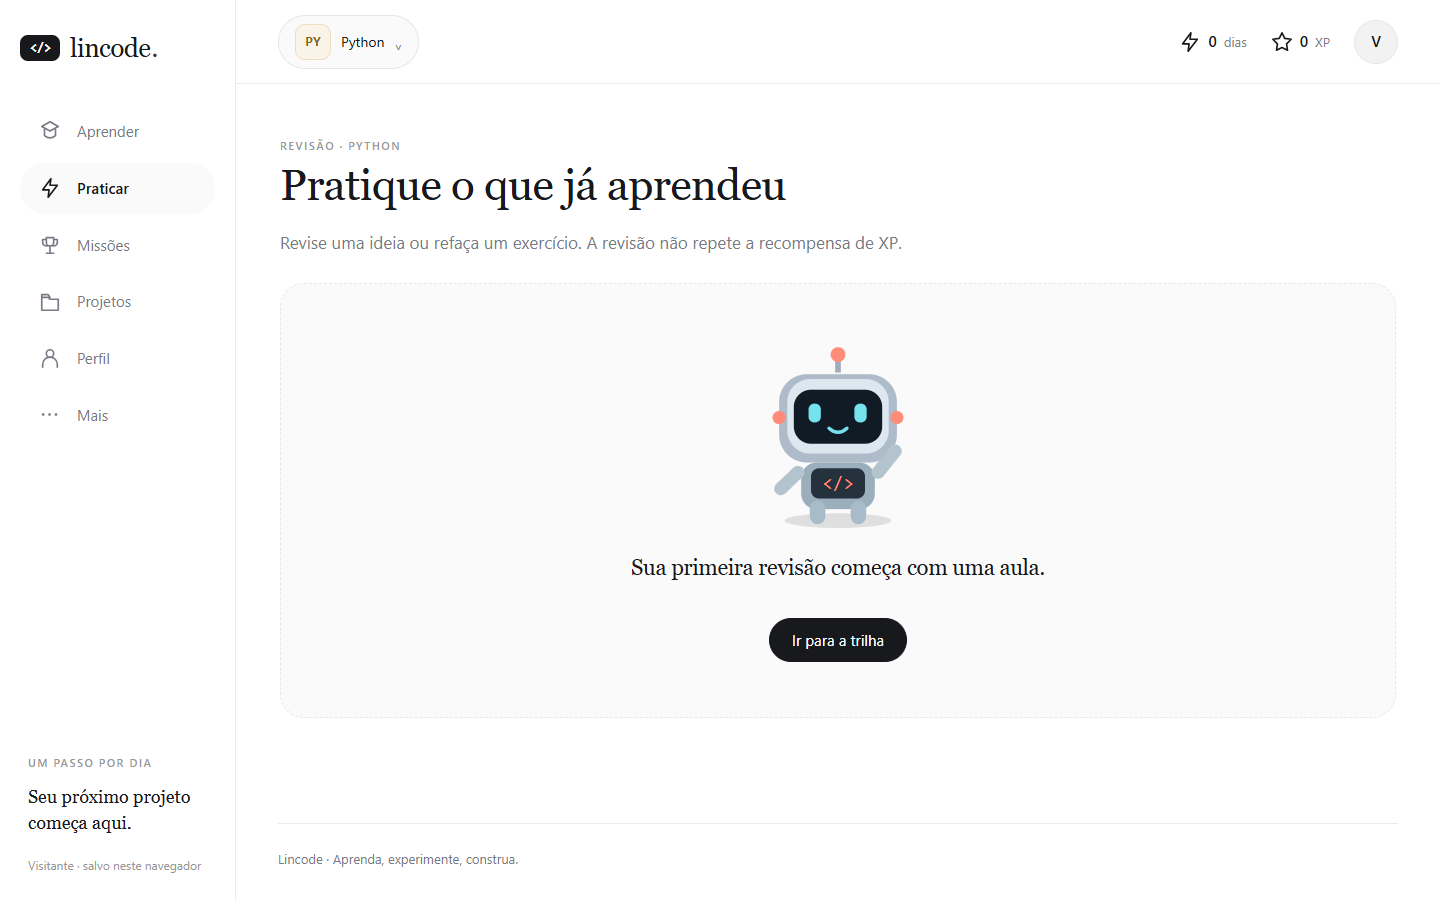
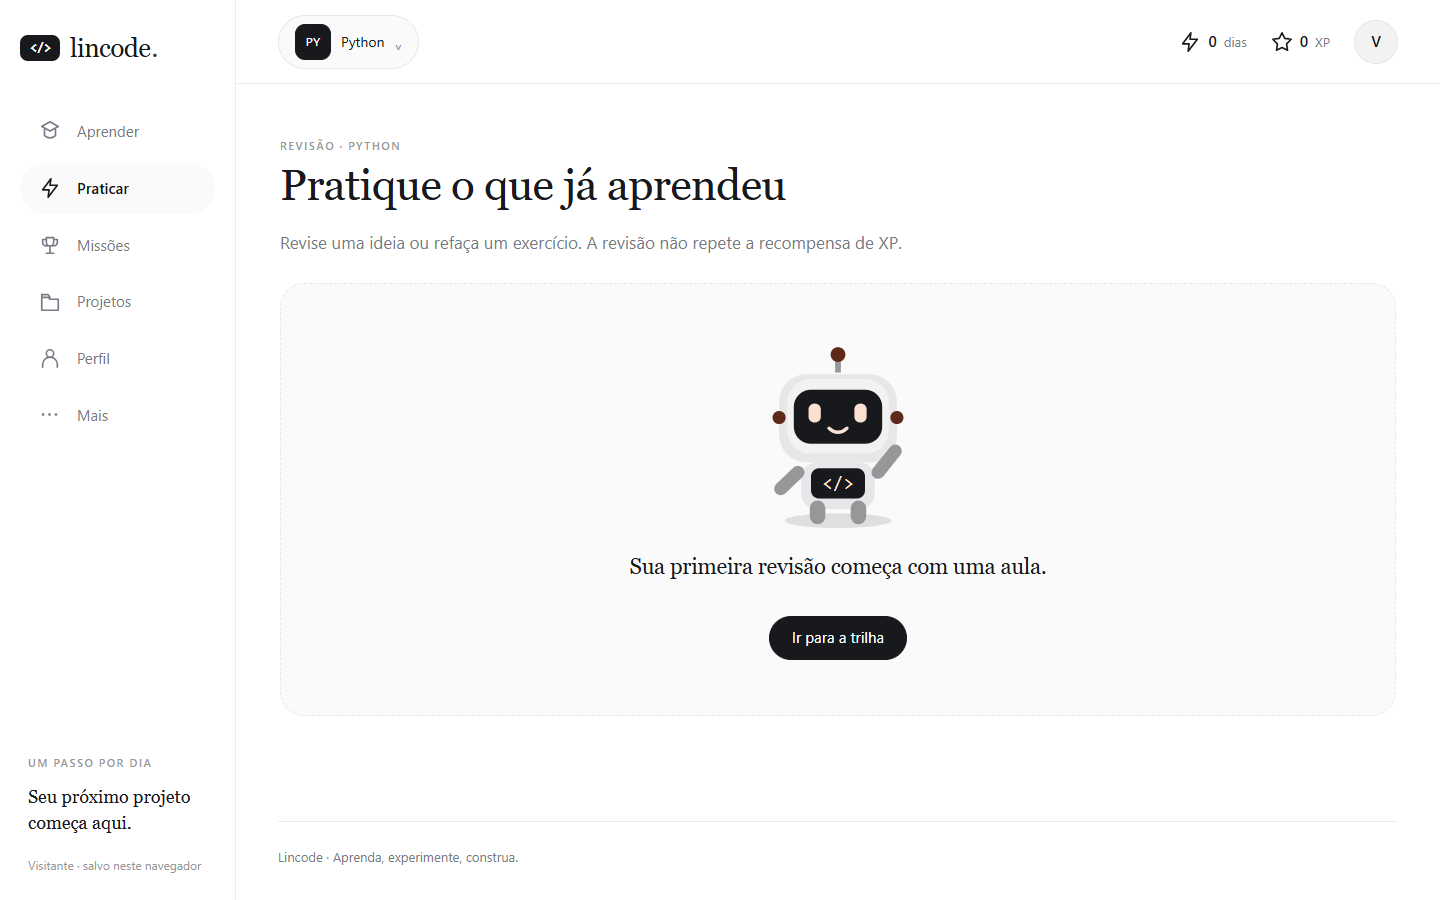
feat(ui): refinamento do sistema de design steep com tokens tipograficos, escala de superficies e mascote harmonizado

diff --git a/styles.css b/styles.css
@@ -14,10 +14,17 @@
   --color-border-hairline: #e7e7ea;
   --color-border-subtle: #ececec;
 
+  /* Surfaces */
+  --surface-canvas: #ffffff;
+  --surface-card-mist: #f2f2f3;
+  --surface-section-fog: #fafafb;
+  --surface-accent-blush: #fbe1d1;
+  --surface-elevated-white: #ffffff;
+
   /* Lincode Mappings */
-  --bg: var(--color-paper-white);
-  --surface: var(--color-mist-gray);
-  --raised: var(--color-paper-white);
+  --bg: var(--surface-canvas);
+  --surface: var(--surface-card-mist);
+  --raised: var(--surface-elevated-white);
   --line: var(--color-border-subtle);
   --ink: var(--color-ink-black);
   --muted: var(--color-slate-gray);
@@ -25,22 +32,83 @@
   --cyan: var(--color-ink-black);
   --peach: var(--color-blush-peach);
 
-  /* Typography */
-  --font-serif: 'Signifier', 'GT Sectra', 'Tiempos Headline', 'Source Serif 4', Georgia, ui-serif, serif;
-  --font-sans: 'Sohne', Inter, ui-sans-serif, system-ui, -apple-system, BlinkMacSystemFont, "Segoe UI", Roboto, sans-serif;
+  /* Typography — Font Families */
+  --font-signifier: 'Signifier', 'GT Sectra', 'Tiempos Headline', 'Source Serif 4', Georgia, ui-serif, serif;
+  --font-sohne: 'Sohne', Inter, ui-sans-serif, system-ui, -apple-system, BlinkMacSystemFont, "Segoe UI", Roboto, sans-serif;
+  --font-serif: var(--font-signifier);
+  --font-sans: var(--font-sohne);
   --font-mono: Consolas, 'SF Mono', 'Courier New', monospace;
 
+  /* Typography — Scale */
+  --text-caption: 15px;
+  --leading-caption: 1.5;
+  --text-body: 17px;
+  --leading-body: 1.35;
+  --text-body-lg: 20px;
+  --leading-body-lg: 1.35;
+  --text-subheading: 22px;
+  --leading-subheading: 1.5;
+  --text-heading-sm: 26px;
+  --leading-heading-sm: 1.18;
+  --tracking-heading-sm: -0.23px;
+  --text-heading: 44px;
+  --leading-heading: 1.3;
+  --tracking-heading: -0.66px;
+  --text-heading-lg: 64px;
+  --leading-heading-lg: 1.3;
+  --tracking-heading-lg: -0.96px;
+  --text-display: 90px;
+  --leading-display: 1.3;
+  --tracking-display: -2.25px;
+
+  /* Typography — Weights */
+  --font-weight-regular: 400;
+  --font-weight-w430: 430;
+  --font-weight-w450: 450;
+  --font-weight-w480: 480;
+  --font-weight-medium: 500;
+
+  /* Spacing Scale (4px base) */
+  --spacing-4: 4px;
+  --spacing-8: 8px;
+  --spacing-12: 12px;
+  --spacing-16: 16px;
+  --spacing-20: 20px;
+  --spacing-24: 24px;
+  --spacing-28: 28px;
+  --spacing-32: 32px;
+  --spacing-40: 40px;
+  --spacing-64: 64px;
+  --spacing-80: 80px;
+  --spacing-96: 96px;
+  --spacing-124: 124px;
+  --spacing-128: 128px;
+  --spacing-160: 160px;
+
   /* Shapes & Radii */
-  --radius-pill: 9999px;
-  --radius-card: 24px;
-  --radius-elevated: 20px;
-  --radius-input: 16px;
+  --radius-buttons: 9999px;
+  --radius-cards: 24px;
+  --radius-elevatedcards: 20px;
+  --radius-smallcards: 16px;
+  --radius-inputs: 16px;
+  --radius-images: 12px;
+
+  --radius-pill: var(--radius-buttons);
+  --radius-card: var(--radius-cards);
+  --radius-elevated: var(--radius-elevatedcards);
+  --radius-input: var(--radius-inputs);
   --radius: var(--radius-card);
 
+  /* Layout */
+  --page-max-width: 1200px;
+  --section-gap: 80px;
+  --card-padding: 20px;
+  --element-gap: 8px;
+
   /* Elevation Shadows */
-  --shadow-subtle: oklab(0 0 0 / 0.05) 0px 0px 0px 1px, rgba(0, 0, 0, 0.06) 0px 4px 20px 0px;
-  --shadow-subtle-2: oklab(0 0 0 / 0.05) 0px 0px 0px 1px, rgba(0, 0, 0, 0.08) 0px 8px 30px 0px;
-  --shadow-subtle-3: rgba(4, 23, 43, 0.04) 0px 0px 0px 1px, rgba(0, 0, 0, 0.08) 0px 20px 25px -5px, rgba(0, 0, 0, 0.05) 0px 8px 10px -6px;
+  --shadow-subtle: oklab(0 0 0 / 0.05) 0px 0px 0px 1px, rgba(0, 0, 0, 0.08) 0px 4px 24px 0px;
+  --shadow-subtle-2: oklab(0 0 0 / 0.05) 0px 0px 0px 1px, rgba(0, 0, 0, 0.1) 0px 8px 40px 0px;
+  --shadow-subtle-3: rgba(4, 23, 43, 0.05) 0px 0px 0px 1px, rgba(0, 0, 0, 0.1) 0px 20px 25px -5px, rgba(0, 0, 0, 0.1) 0px 8px 10px -6px;
 
   font-family: var(--font-sans);
   color: var(--ink);
@@ -70,25 +138,31 @@ a { color: inherit; text-decoration: none; }
 h1, h2, h3, h4, p { margin: 0; }
 h1, h2 {
   font-family: var(--font-serif);
-  font-weight: 400; /* Signature Steep restraint: whisper authority at weight 400 */
-  line-height: 1.30;
+  font-weight: var(--font-weight-regular); /* Signature Steep restraint: whisper authority at weight 400 */
 }
 h1 {
-  font-size: clamp(28px, 3.2vw, 44px);
-  letter-spacing: -0.66px;
+  font-size: clamp(28px, 3.2vw, var(--text-heading));
+  line-height: var(--leading-heading);
+  letter-spacing: var(--tracking-heading);
 }
 h2 {
-  font-size: 24px;
-  letter-spacing: -0.3px;
+  font-size: var(--text-heading-sm);
+  line-height: var(--leading-heading-sm);
+  letter-spacing: var(--tracking-heading-sm);
+}
+h1 em, h1 i, h2 em, h2 i {
+  font-style: italic;
+  font-weight: var(--font-weight-regular);
 }
 h3 {
   font-size: 18px;
-  font-weight: 500;
+  font-weight: var(--font-weight-medium);
+  letter-spacing: -0.16px;
   line-height: 1.35;
 }
 h4 {
   font-size: 15px;
-  font-weight: 500;
+  font-weight: var(--font-weight-medium);
   line-height: 1.4;
 }
 p { margin-top: 12px; }
@@ -265,16 +339,21 @@ main:focus { outline: 0; }
   color: var(--color-ink-black);
   border: 1px solid var(--color-border-hairline);
   font-family: var(--font-mono);
-  font-size: 14px;
-  font-weight: 600;
+  font-size: 13px;
+  font-weight: 500;
   border-radius: 10px;
   flex-shrink: 0;
+  transition: all 0.15s ease;
 }
-.language-tag.python { color: #855f19; background: #faf4e8; border-color: #eeddc2; }
-.language-tag.javascript { color: #7f6e16; background: #faf8e7; border-color: #eee7be; }
-.language-tag.csharp { color: #5c357f; background: #f6eefc; border-color: #dec8f0; }
-.language-tag.java { color: #803c27; background: #fcefe9; border-color: #f2cbbe; }
-.language-tag.cpp { color: #1c527e; background: #edf4fa; border-color: #c7ddf0; }
+.course-card.selected .language-tag,
+.course-switch .language-tag {
+  background: var(--color-ink-black);
+  color: var(--color-paper-white);
+  border-color: var(--color-ink-black);
+}
+.course-card:hover .language-tag {
+  border-color: var(--color-ink-black);
+}
 
 .stats {
   display: flex;
@@ -588,13 +667,19 @@ main:focus { outline: 0; }
   font-size: 13px;
 }
 
-/* Right Rail Panels (Neutral Cards) */
+/* Right Rail Panels (Floating Product Artifacts) */
 .right-rail { display: grid; gap: 24px; }
 .panel {
   padding: 24px;
   border: 1px solid var(--color-border-hairline);
   border-radius: var(--radius-card); /* 24px */
   background: var(--color-mist-gray); /* Steep Neutral Card */
+}
+.right-rail .panel {
+  background: var(--surface-elevated-white);
+  border: 1px solid var(--color-border-subtle);
+  border-radius: var(--radius-elevatedcards); /* 20px */
+  box-shadow: var(--shadow-subtle-3); /* Floating Product Artifact elevation */
 }
 .panel h2 {
   font-size: 18px;
@@ -691,12 +776,12 @@ main:focus { outline: 0; }
   font-size: 13px;
   line-height: 1.6;
   color: var(--color-ink-black);
-  background: var(--color-paper-white);
-  border: 1px solid var(--color-border-subtle);
-  padding: 14px;
-  border-radius: 16px;
+  background: var(--surface-card-mist);
+  border: 1px solid var(--color-border-hairline);
+  padding: 16px;
+  border-radius: var(--radius-smallcards);
   margin-top: 0;
-  box-shadow: 0 1px 3px rgba(0, 0, 0, 0.03);
+  box-shadow: none;
 }
 .bit-note > span {
   font-size: 10px;
@@ -1156,10 +1241,10 @@ dialog::backdrop {
   font-family: var(--font-mono);
   font-size: 14px;
   line-height: 1.8;
-  background: #f8f8fa;
-  border: 1px solid #e5e5e9;
+  background: var(--surface-section-fog);
+  border: 1px solid var(--color-border-subtle);
   padding: 22px 24px;
-  border-radius: 16px;
+  border-radius: var(--radius-inputs);
   overflow: auto;
   color: var(--color-ink-black);
   tab-size: 4;
@@ -1225,9 +1310,9 @@ dialog::backdrop {
   margin-top: 24px;
 }
 .feedback.correct {
-  background: #edf7ed;
-  border: 1px solid #c8e6c9;
-  color: #1e4620;
+  background: #f4f8f4;
+  border: 1px solid #dbe7db;
+  color: #1e3820;
 }
 .feedback.incorrect {
   background: var(--color-blush-peach); /* Steep Peach Accent */

diff --git a/app.js b/app.js
@@ -7,7 +7,7 @@ const $=s=>document.querySelector(s), core=LincodeCore;
 const esc=s=>String(s??'').replace(/[&<>"']/g,c=>({'&':'&amp;','<':'&lt;','>':'&gt;','"':'&quot;',"'":'&#39;'}[c]));
 const symbols={learn:'M3 7l9-5 9 5-9 5z M6 10v7q6 5 12 0v-7',practice:'M13 2L4 14h7l-1 8 10-13h-8z',missions:'M8 4h8v5a4 4 0 0 1-8 0z M8 6H4v3q0 4 5 4 M16 6h4v3q0 4-5 4 M12 13v7 M8 21h8',projects:'M3 7h7l2 2h9v12H3z M3 7V4h7l2 3',profile:'M16 7a4 4 0 1 1-8 0 4 4 0 0 1 8 0 M4 22v-3a8 8 0 0 1 16 0v3',more:'M4 11h1v1H4z M11 11h1v1h-1z M18 11h1v1h-1z',star:'M12 2l3 6 7 1-5 5 1 7-6-3-6 3 1-7-5-5 7-1z',check:'M4 12l5 5L20 5',lock:'M7 10V7a5 5 0 0 1 10 0v3 M5 10h14v11H5z',arrow:'M5 12h14 M13 6l6 6-6 6',code:'M8 5l-6 7 6 7 M16 5l6 7-6 7 M14 3l-4 18'};
 const icon=n=>`<svg class="icon" viewBox="0 0 24 24" aria-hidden="true"><path d="${symbols[n]||symbols.code}"/></svg>`;
-function bit(mood='explain') {return `<svg class="bit bit-${mood}" viewBox="0 0 220 240" role="img" aria-label="Bit, robô ${mood==='celebrate'?'comemorando':mood==='doubt'?'pensando':mood==='encourage'?'incentivando':'explicando'}"><ellipse cx="110" cy="222" rx="65" ry="9" fill="rgba(23,25,28,0.12)"/><path d="M110 41V22" stroke="#a4acb9" stroke-width="7"/><circle cx="110" cy="19" r="9" fill="#ff8c78"/><rect x="38" y="43" width="144" height="108" rx="34" fill="#aebcc9"/><rect x="48" y="49" width="124" height="91" rx="28" fill="#dce7ef"/><rect x="56" y="62" width="108" height="66" rx="21" fill="#111b25"/><g fill="#75e3ee">${mood==='celebrate'?'<path d="M71 88l10-8 10 8-4 5-6-5-6 5z M129 88l10-8 10 8-4 5-6-5-6 5z"/>':'<rect x="74" y="79" width="15" height="23" rx="7"/><rect x="130" y="79" width="15" height="23" rx="7"/>'}</g><path d="${mood==='doubt'?'M102 113h18':'M99 109q11 10 22 0'}" stroke="#75e3ee" stroke-width="4" fill="none" stroke-linecap="round"/><rect x="65" y="151" width="90" height="57" rx="19" fill="#9aaebb"/><rect x="77" y="158" width="66" height="37" rx="10" fill="#25313c"/><text x="110" y="183" text-anchor="middle" fill="#ff8c78" font-size="23" font-family="monospace">&lt;/&gt;</text><path d="M61 163l-21 ${mood==='celebrate'?'-29':'20'} M159 163l21 -26" stroke="#b4c4cf" stroke-width="16" stroke-linecap="round"/><path d="M85 207v10 M135 207v10" stroke="#a8bbc9" stroke-width="19" stroke-linecap="round"/><circle cx="38" cy="96" r="8" fill="#ff8c78"/><circle cx="182" cy="96" r="8" fill="#ff8c78"/></svg>`;}
+function bit(mood='explain') {return `<svg class="bit bit-${mood}" viewBox="0 0 220 240" role="img" aria-label="Bit, robô ${mood==='celebrate'?'comemorando':mood==='doubt'?'pensando':mood==='encourage'?'incentivando':'explicando'}"><ellipse cx="110" cy="222" rx="65" ry="9" fill="rgba(23,25,28,0.12)"/><path d="M110 41V22" stroke="#979799" stroke-width="7"/><circle cx="110" cy="19" r="9" fill="#5d2a1a"/><rect x="38" y="43" width="144" height="108" rx="34" fill="#e7e7ea"/><rect x="48" y="49" width="124" height="91" rx="28" fill="#f2f2f3"/><rect x="56" y="62" width="108" height="66" rx="21" fill="#17191c"/><g fill="#fbe1d1">${mood==='celebrate'?'<path d="M71 88l10-8 10 8-4 5-6-5-6 5z M129 88l10-8 10 8-4 5-6-5-6 5z"/>':'<rect x="74" y="79" width="15" height="23" rx="7"/><rect x="130" y="79" width="15" height="23" rx="7"/>'}</g><path d="${mood==='doubt'?'M102 113h18':'M99 109q11 10 22 0'}" stroke="#fbe1d1" stroke-width="4" fill="none" stroke-linecap="round"/><rect x="65" y="151" width="90" height="57" rx="19" fill="#e7e7ea"/><rect x="77" y="158" width="66" height="37" rx="10" fill="#17191c"/><text x="110" y="183" text-anchor="middle" fill="#fbe1d1" font-size="23" font-family="monospace">&lt;/&gt;</text><path d="M61 163l-21 ${mood==='celebrate'?'-29':'20'} M159 163l21 -26" stroke="#979799" stroke-width="16" stroke-linecap="round"/><path d="M85 207v10 M135 207v10" stroke="#979799" stroke-width="19" stroke-linecap="round"/><circle cx="38" cy="96" r="8" fill="#5d2a1a"/><circle cx="182" cy="96" r="8" fill="#5d2a1a"/></svg>`;}
 const navigation=[['aprender','Aprender','learn'],['praticar','Praticar','practice'],['missoes','Missões','missions'],['projetos','Projetos','projects'],['perfil','Perfil','profile'],['mais','Mais','more']];
 $('#navigation').innerHTML=navigation.map(([r,t,i])=>`<a href="#${r}" data-nav="${r}">${icon(i)}<span>${t}</span></a>`).join('');
 let user=null, state=core.clean(), ready=false, session=null, syncQueue=Promise.resolve(), syncTimer, syncFailed=false, localFailed=false, lastInteraction=Date.now(), lastTick=performance.now(), noticeTimer;
